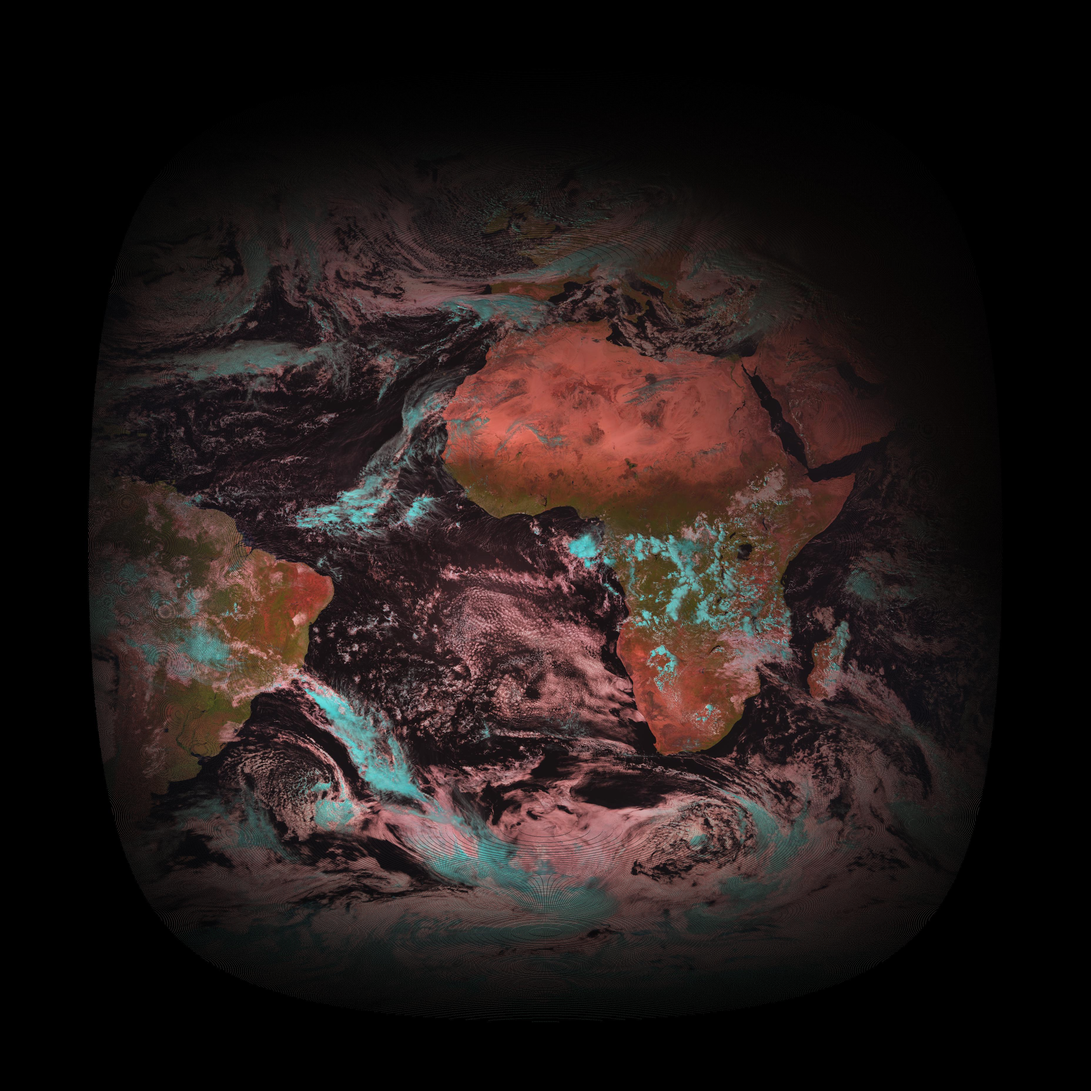
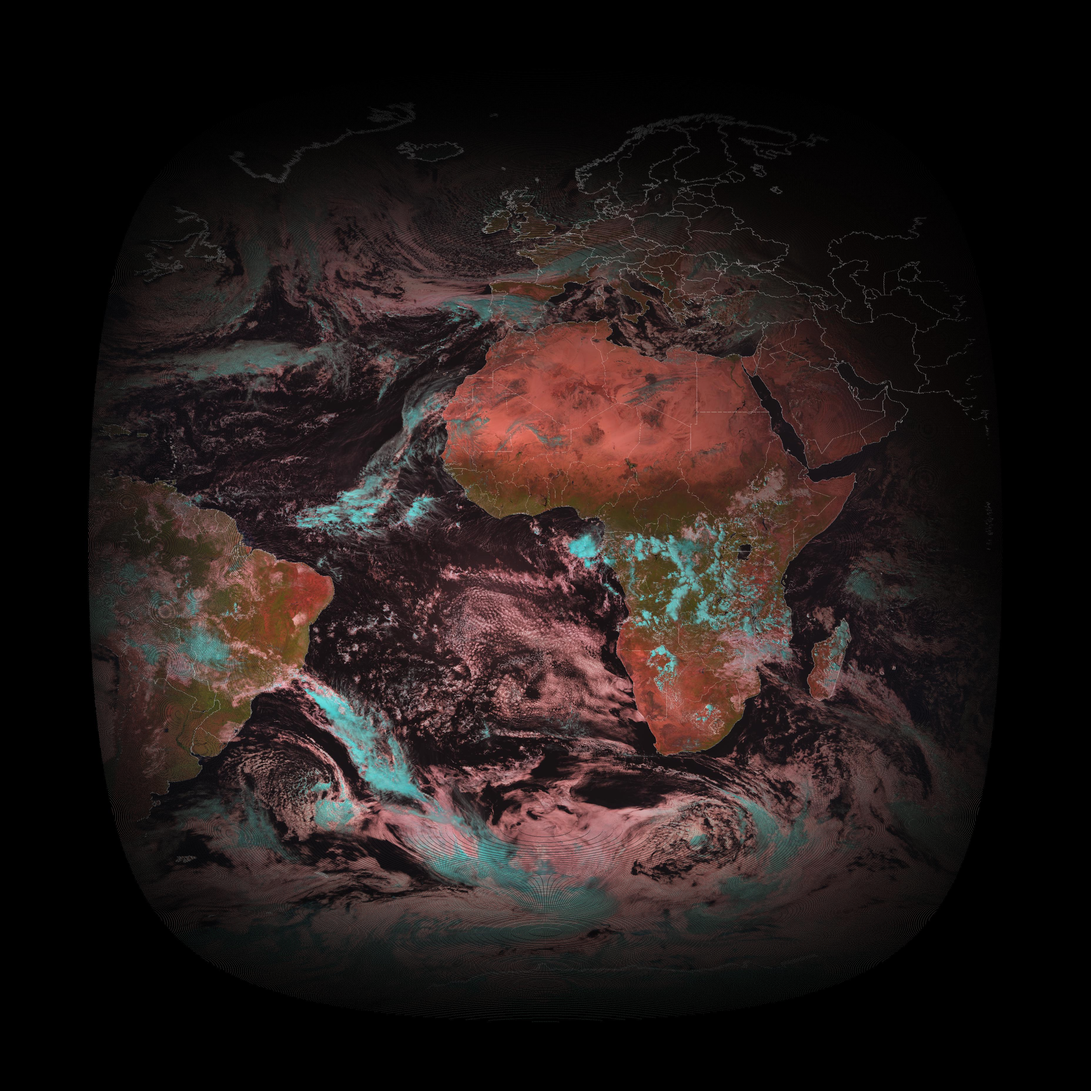
Overlay totaly working

Changed region(s): [[0.4375, 0.1875, 0.5, 0.2188], [0.625, 0.25, 0.6562, 0.2812]]

diff --git a/SatImg.py b/SatImg.py
@@ -10,6 +10,8 @@ from numba import jit   # For speeding the nested loops and arithmetic functions
 from PIL import Image   # For exporting arrays to images
 
 
+directory = os.getcwd()
+
 # Create the HDF file variable
 hdf5_file = None
 
@@ -30,15 +32,17 @@ def read_dataset(ch):
     return (array + offset) * scale
 
 
-def overlay(array, layer='coast', alpha=0.35):
+def overlay(array, layer, alpha):
     '''Given an array, an alpha coeficient and the type of overlay
     we want to make, return a modified aray'''
+
+    # Change to the main directory
+    os.chdir(directory)
 
     # Load the overlay
     os.chdir('overlays')
     if layer[:3] == 'geo':
         geo = True
-        layer = layer[4:]
     else:
         geo = False
 
@@ -50,16 +54,21 @@ def overlay(array, layer='coast', alpha=0.35):
         lay_img = Image.open("msg_0d_full_ir_latlong.gif")
     elif layer == 'countries-latlon':
         lay_img = Image.open("msg_0d_full_ir_latlong_countries.gif")
+    elif layer == 'geo-coast':
+        lay_img = Image.open("geo-coast.gif")
+    elif layer == 'geo-countries':
+        lay_img = Image.open("geo-countries.gif")
+    elif layer == 'geo-coast-latlon':
+        lay_img = Image.open("geo-coast-latlon.gif")
+    elif layer == 'geo-countries-latlon':
+        lay_img = Image.open("geo-countries-latlon.gif")
     else:
         print('Error: overlay bad introduced')
-
     # Convert overlay image into numpy array
     lay_array = np.array(lay_img)
-    lay_array = np.expand_dims(lay_array, axis=2)
-
     # Cut the lay_array in case the array have been cropped
     size = array.shape
-    if size[:2] != (3712, 3712):
+    if size[:2] != (3712, 3712) and not geo:
         # Get array dimensions and position
         south = len(hdf5_file['south_most_line'])
         east = len(hdf5_file['east_most_pixel'])
@@ -68,15 +77,9 @@ def overlay(array, layer='coast', alpha=0.35):
         south = 3712 - south
         east = 3712 - east
         lay_array = lay_array[north:south, west:east]
-
-    if geo:
-        lay_array = latlon(lay_array, interpolation=False)
-        lay_array[np.isnan(lay_array)] = 0
     lay_array = lay_array / lay_array.max()
-
     # Apply alpha
     # Factor is between 0 and 1, being 0 totally transparent
-    lay_array = np.squeeze(lay_array, axis=2)
     array[lay_array == 1] = array[lay_array == 1] * (1 - alpha) + 255 * alpha
     return array
 

diff --git a/example.py b/example.py
@@ -11,30 +11,28 @@ file_path = data_path + '\\' + 'W_XX-EUMETSAT-Darmstadt,VIS+IR+IMAGERY,MSG3+SEVI
 sat.read_file(file_path)
 
 # Making the color array
-color_array = sat.dust()
-geocolor = sat.latlon(color_array, interpolation=False)
-sat.create_image(geocolor, images_path, 'Colorido.jpeg', layer='geo-countries', alpha=1)
+color_array = sat.color()
+sat.create_image(color_array, images_path, 'Color.jpeg', layer='countries', alpha=0.35)
 
-'''colorgeo1bilinter_array = sat.latlon(color_array)
-sat.create_image(colorgeo1bilinter_array, images_path, 'ColorGeo Bilinter.jpeg')
+colorgeo1bilinter_array = sat.latlon(color_array)
+sat.create_image(colorgeo1bilinter_array, images_path, 'ColorGeo Bilinter.jpeg', layer='geo-countries', alpha=0.35)
 
 colorgeo1_array = sat.latlon(color_array, interpolation=False)
-sat.create_image(colorgeo1_array, images_path, 'ColorGeo.jpeg')
+sat.create_image(colorgeo1_array, images_path, 'ColorGeo.jpeg', layer='geo-countries', alpha=0.35)
 
 colorgeo2_array = sat.latlon(color_array, way=2)
-sat.create_image(colorgeo2_array, images_path, 'ColorGeo Modo 2.jpeg')
+sat.create_image(colorgeo2_array, images_path, 'ColorGeo Modo 2.jpeg', layer='geo-countries', alpha=0.35)
 
 
 # Making the dust array
 dust_array = sat.dust()
-sat.create_image(dust_array, images_path, 'Dust.jpeg')
+sat.create_image(dust_array, images_path, 'Dust.jpeg', layer='countries', alpha=0.35)
 
 dustgeo1bilinter_array = sat.latlon(dust_array)
-sat.create_image(dustgeo1bilinter_array, images_path, 'DustGeo Bilinter.jpeg')
+sat.create_image(dustgeo1bilinter_array, images_path, 'DustGeo Bilinter.jpeg', layer='geo-countries', alpha=0.35)
 
 dustgeo1_array = sat.latlon(dust_array, interpolation=False)
-sat.create_image(dustgeo1_array, images_path, 'DustGeo.jpeg')
+sat.create_image(dustgeo1_array, images_path, 'DustGeo.jpeg', layer='geo-countries', alpha=0.35)
 
 dustgeo2_array = sat.latlon(dust_array, way=2)
-sat.create_image(dustgeo2_array, images_path, 'DustGeo Modo 2.jpeg')
-'''
+sat.create_image(dustgeo2_array, images_path, 'DustGeo Modo 2.jpeg', layer='geo-countries', alpha=0.35)
